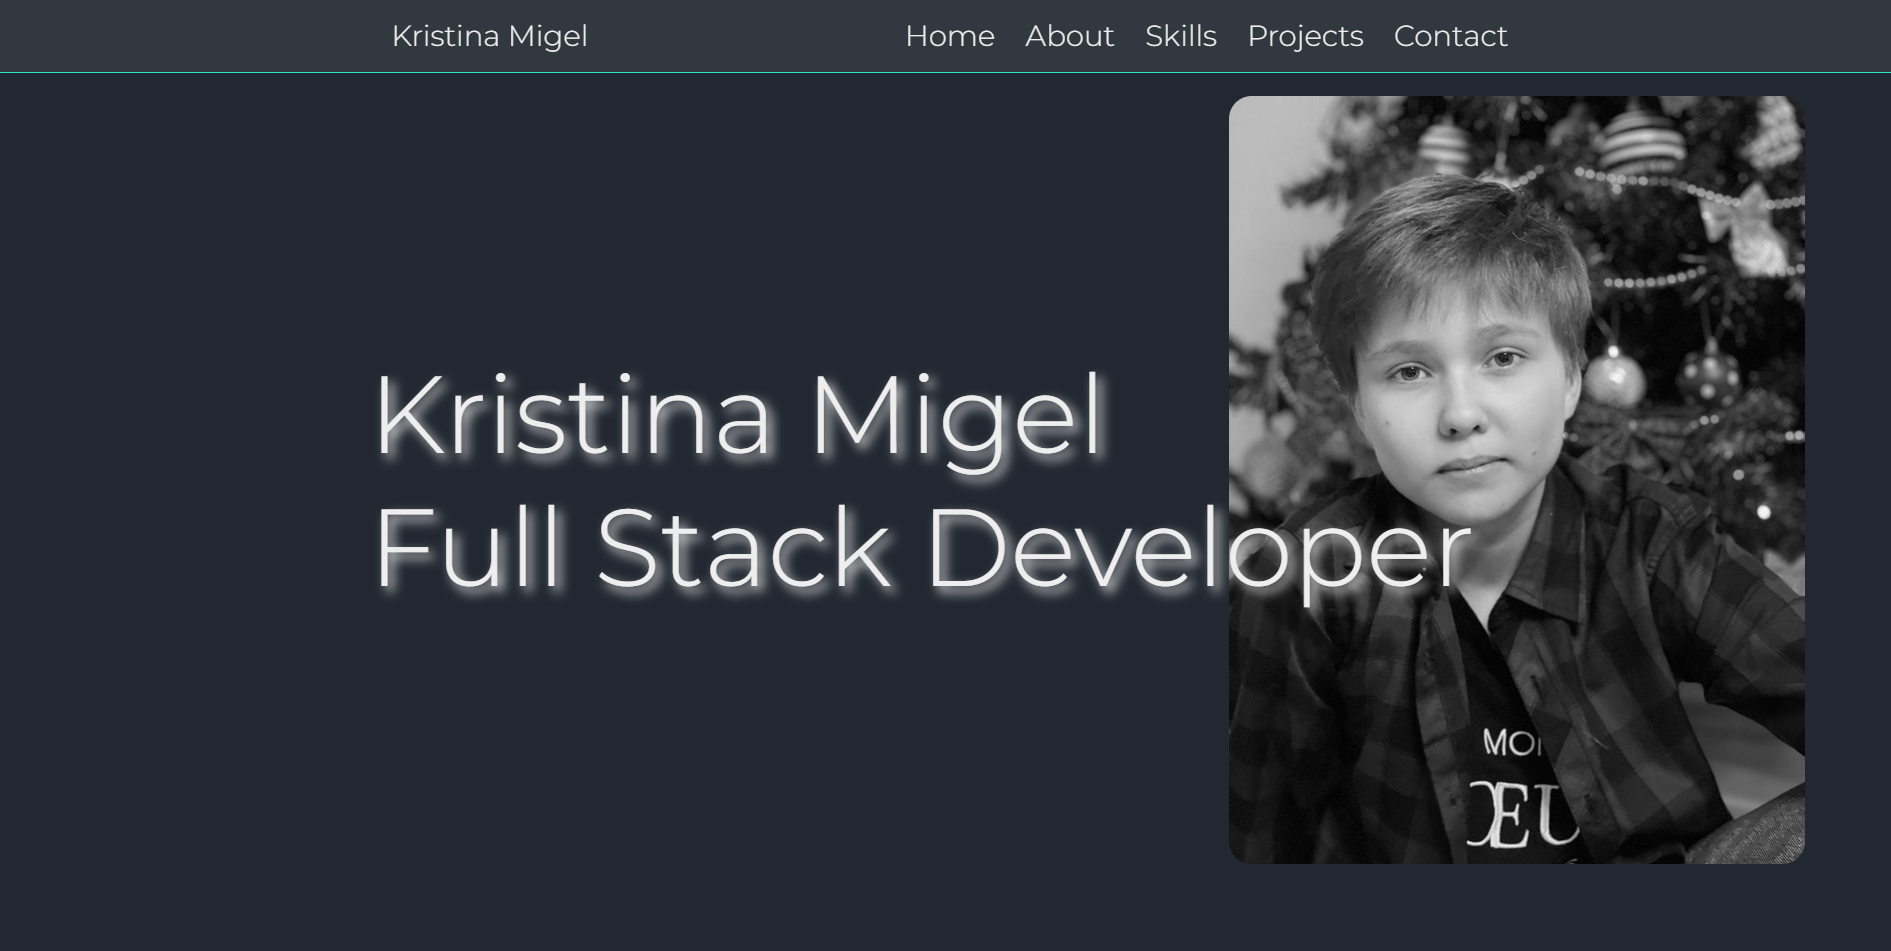
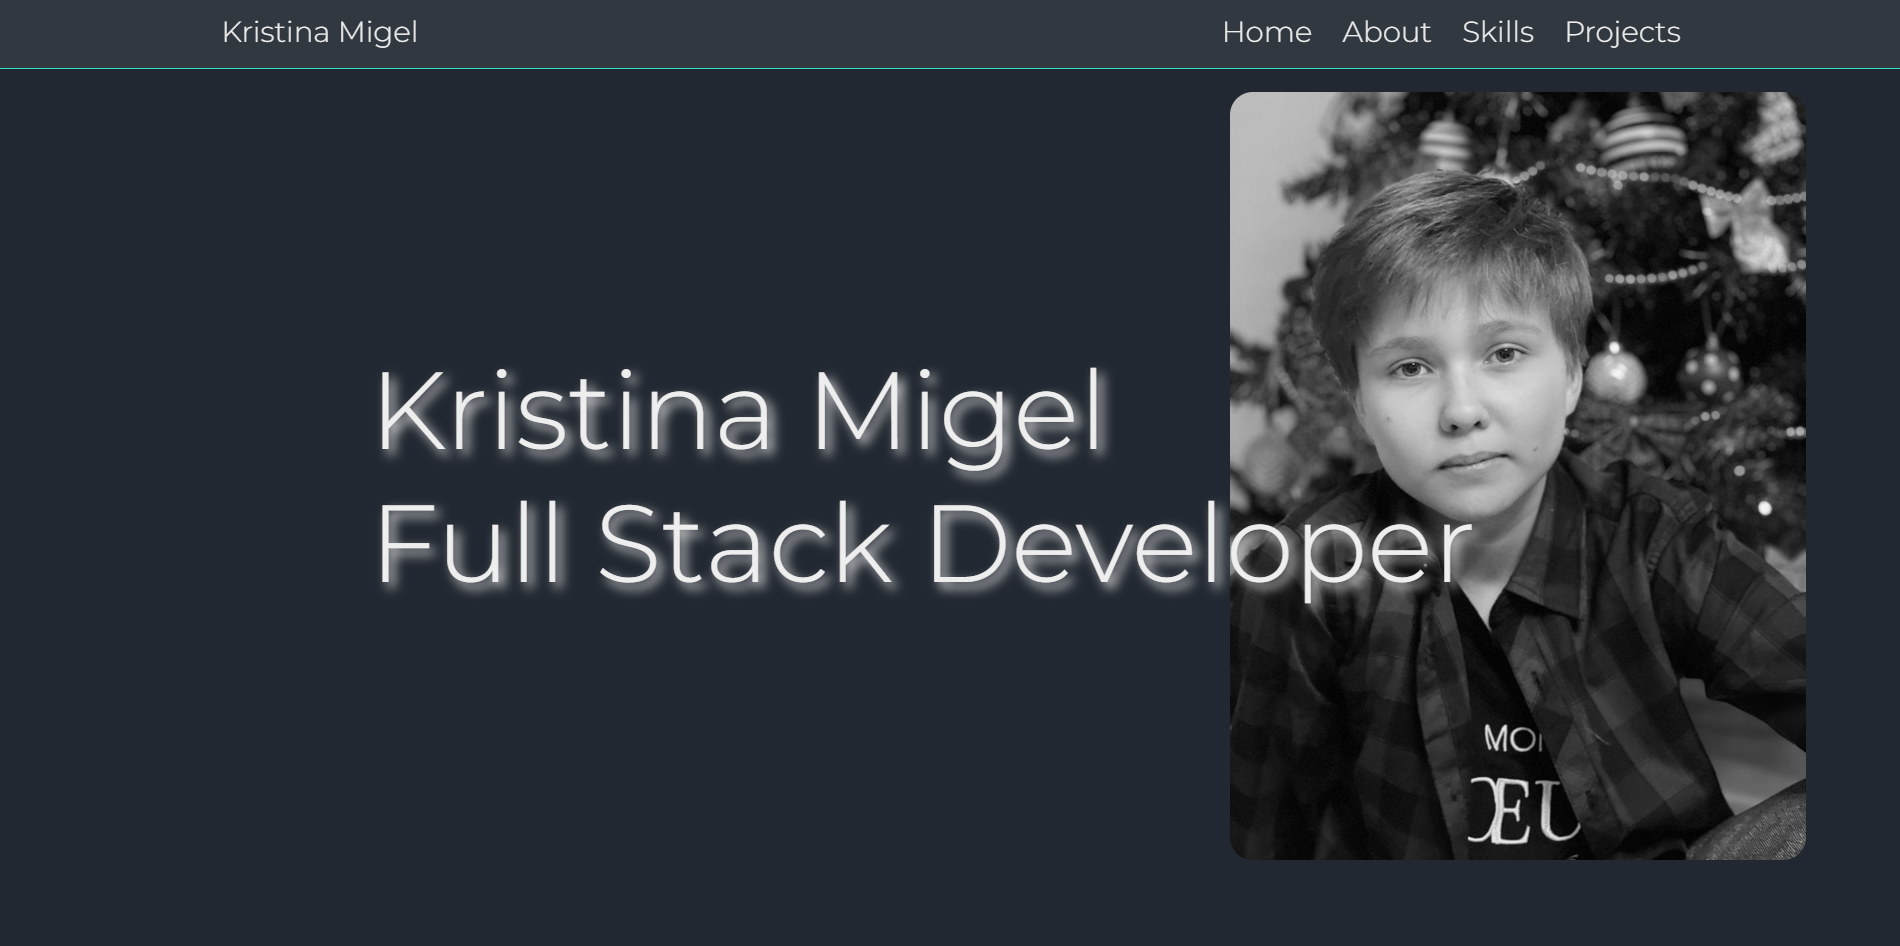
Finished project

diff --git a/index.html b/index.html
@@ -18,26 +18,11 @@
                         <p class="nav-name"><a href="#intro">Kristina Migel</a></p>
                     </div>
                     <div class="navbar-content">
-                        <div class="collapse-container">
-                            <label for="collapse"><img class="collapse-btn" src="images/btn-collapse.svg" alt="collapse-menu-button"></label>
-                            <input id="collapse" type="checkbox">
-                            <div class="collapse-content">
-                                <ul>
-                                    <li><a href="#intro">Home</a></li>
-                                    <li><a href="#about">About</a></li>
-                                    <li><a href="#skills">Skills</a></li>
-                                    <li><a href="#projects">Projects</a></li>
-                                    <li><a>Contact</a></li>
-                                </ul>
-                            </div>
-                        </div>
-
                         <div class="navbar-sections">
                             <a href="#intro">Home</a>
                             <a href="#about">About</a>
                             <a href="#skills">Skills</a>
                             <a href="#projects">Projects</a>
-                            <a>Contact</a>
                         </div>
                     </div>
                 </div>

diff --git a/styles.css b/styles.css
@@ -53,7 +53,7 @@ section {
     justify-content: start;
     margin: 0 auto;
     height: 100%;
-    max-width: 1000px;
+    max-width: 1300px;
 }
 .nav-name {
     margin: 0;
@@ -77,13 +77,6 @@ section {
     color: var(--primary-3);
     text-decoration: underline;
     cursor: pointer;
-}
-
-.collapse, #collapse, .collapse-content  {
-    display: none;
-}
-.collapse-content > ul {
-    list-style: none;
 }
 
 /* Home page */
@@ -253,7 +246,7 @@ section {
     }
 }
 
-@media screen and (max-width: 700px) {
+@media screen and (max-width: 530px) {
     .navbar {
         font-size: 0.8em;
     }
@@ -262,26 +255,5 @@ section {
     }
     .navbar-sections {
         display: none;
-    }
-    .collapse-container {
-        width: 100%;
-        display: flex;
-        justify-content: end;
-    }
-    .collapse-btn {
-        display: block;
-        width: 50px;
-        float: left;
-    }
-    #collapse {
-        display: block;
-        border: none;
-        opacity: 0;
-    }
-    #collapse:checked {
-        opacity: 1;
-    }
-    .navbar a {
-        padding: 0 10px;
     }
 }
